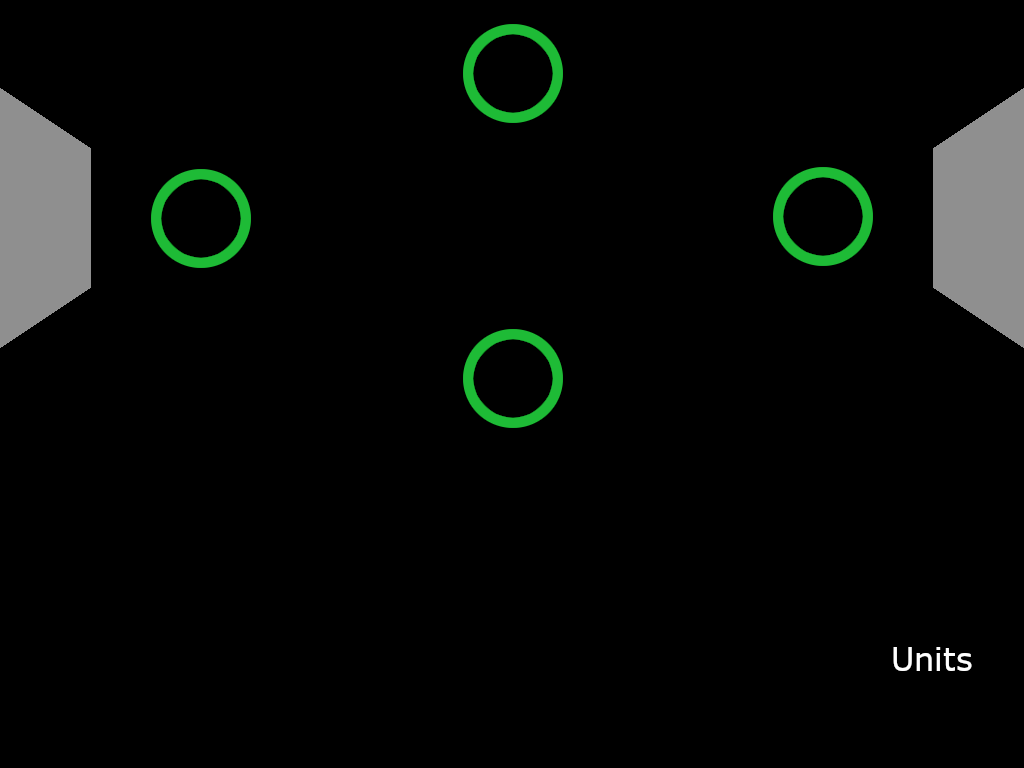
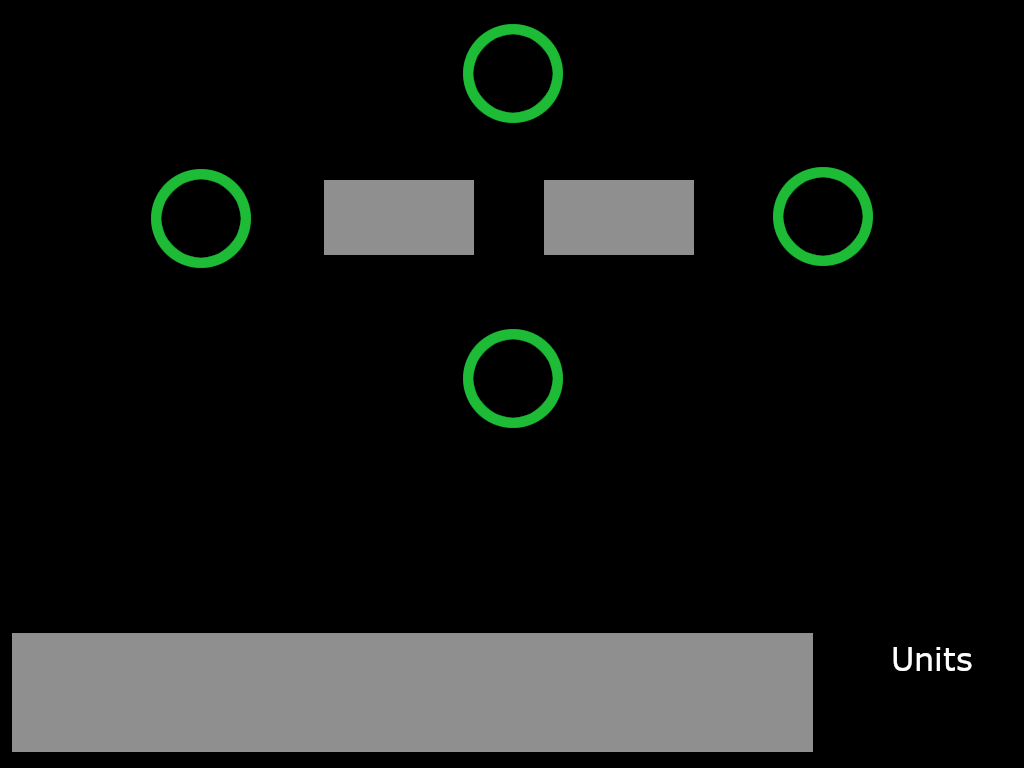
Further improvement of rendering

diff --git a/Framework/DiscreetBar.py b/Framework/DiscreetBar.py
@@ -7,45 +7,34 @@ Created on Fri Jul 25 15:50:32 2025
 
 import pygame as pg
 
+import Framework.Bar as Bar
 
 
-
-class DiscreetBar():
-    def __init__(self, maxEntries, insetWidth, width, height, bgColor,  fgColor, orientation):
+class DiscreetBar(Bar.Bar):
+    def __init__(self, maxEntries,  insetWidth, width, height, bgColor,  fgColor, orientation):
+        super().__init__( insetWidth, width, height, bgColor,  fgColor, orientation)
+        
         self.__maxEntries = maxEntries
-        self.__insetWidth = insetWidth
-        self.__bgColor = bgColor
-        self.__fgColor = fgColor
-        if orientation == 0: # Down
-            self.__turningAngle = 0
-        elif orientation == 1: # Right
-            self.__turningAngle = 90
-            width, height = height, width
-        elif orientation == 2: # Up
-            self.__turningAngle = 180
-        else: # left
-            self.__turningAngle = 270
-            width, height = height, width
-        self.__drawSurface = pg.Surface((width, height))
+
+
+        
+         
         
         
     def paint(self, targetSurface, position, entries):
-        width =  self.__drawSurface.get_rect().width
-        height =  self.__drawSurface.get_rect().height
         
-        targetWidth = width - 2 * self.__insetWidth
-        targetHeight = height / self.__maxEntries - 2 * self.__insetWidth
-        stepHeight = height / self.__maxEntries
-        xPos = self.__insetWidth
-        yPos = self.__insetWidth
-        self.__drawSurface.fill( self.__bgColor)
+        
+        stepHeight = self._sourceHeight / self.__maxEntries
+        targetWidth = self._sourceWidth - 2 * self._insetWidth
+        targetHeight = stepHeight - 2 * self._insetWidth
+        xPos = self._insetWidth
+        yPos = self._insetWidth
+        
+        self._drawSurface.fill( self._bgColor)
         for _ in range(entries):
-            pg.draw.rect(self.__drawSurface,  self.__fgColor, pg.Rect(xPos, yPos, targetWidth, targetHeight))
+            pg.draw.rect(self._drawSurface,  self._fgColor, pg.Rect(xPos, yPos, targetWidth, targetHeight))
             yPos += stepHeight
             
             
-        finalImage = pg.transform.rotate(self.__drawSurface, self.__turningAngle)
-        width =  finalImage.get_rect().width
-        height =  finalImage.get_rect().height
-        targetSurface.blit(finalImage,  (position[0] - width * 0.5, position[1] - height * 0.5))    
-        
+        finalImage = pg.transform.rotate(self._drawSurface, self._turningAngle)
+        targetSurface.blit(finalImage,  (position[0] - self._destWidth * 0.5, position[1] - self._destHeight * 0.5))  

diff --git a/Framework/ContinuousBar.py b/Framework/ContinuousBar.py
@@ -7,41 +7,27 @@ Created on Fri Jul 25 15:50:32 2025
 
 import pygame as pg
 
+import Framework.Bar as Bar
 
 
-
-class ContinuousBar():
+class ContinuousBar(Bar.Bar):
     def __init__(self,  insetWidth, width, height, bgColor,  fgColor, orientation):
-        self.__insetWidth = insetWidth
-        self.__bgColor = bgColor
-        self.__fgColor = fgColor
-        if orientation == 0: # Down
-            self.__turningAngle = 0
-        elif orientation == 1: # Right
-            self.__turningAngle = 90
-            width, height = height, width
-        elif orientation == 2: # Up
-            self.__turningAngle = 180
-        else: # left
-            self.__turningAngle = 270
-            width, height = height, width
-        self.__drawSurface = pg.Surface((width, height))
+        super().__init__( insetWidth, width, height, bgColor,  fgColor, orientation)
+       
+      
+        
         
         
     def paint(self, targetSurface, position, value):
-        width =  self.__drawSurface.get_rect().width
-        height =  self.__drawSurface.get_rect().height
         
-        targetWidth = width - 2 * self.__insetWidth
-        targetHeight = height * value - 2 * self.__insetWidth
-        xPos = self.__insetWidth
-        yPos = self.__insetWidth
-        self.__drawSurface.fill( self.__bgColor)
-        pg.draw.rect(self.__drawSurface,  self.__fgColor, pg.Rect(xPos, yPos, targetWidth, targetHeight))
+        targetWidth = self._sourceWidth - 2 * self._insetWidth
+        targetHeight = self._sourceHeight * value - 2 * self._insetWidth
+        xPos = self._insetWidth
+        yPos = self._insetWidth
+        self._drawSurface.fill( self._bgColor)
+        pg.draw.rect(self._drawSurface,  self._fgColor, pg.Rect(xPos, yPos, targetWidth, targetHeight))
             
             
-        finalImage = pg.transform.rotate(self.__drawSurface, self.__turningAngle)
-        width =  finalImage.get_rect().width
-        height =  finalImage.get_rect().height
-        targetSurface.blit(finalImage,  (position[0] - width * 0.5, position[1] - height * 0.5))    
+        finalImage = pg.transform.rotate(self._drawSurface, self._turningAngle)
+        targetSurface.blit(finalImage,  (position[0] - self._destWidth * 0.5, position[1] - self._destHeight * 0.5))    
         

diff --git a/FactoryExample/FactoryPainter.py b/FactoryExample/FactoryPainter.py
@@ -64,6 +64,8 @@ class FactoryPainter:
         
         self.__font = pg.font.SysFont(None, 48)
         
+        self.__foreGround = pg.image.load("Foreground.png")
+        
                                                  
         
     
@@ -71,17 +73,11 @@ class FactoryPainter:
     def ImageSize(self):
         rect = self.__backGround.get_rect()
         return (rect.width, rect.height)
-    
-    def DrawStaticParts(self, surface):
+        
+        
+    def DrawScene(self, surface,  situations):
+        # First background
         surface.blit(self.__backGround, (0,0))
-        
-        
-    def DrawFinalOverlay(self, surface):
-        # self.__pointCollection.DebugDraw(surface)
-        pass
-        
-        
-    def DrawElements(self, surface,  situations):
         # First we draw the depots,
         filling = situations['DA']['Info']
         self.__depotPaint.paint(surface,  self.__pointCollection.GetPoint('DepotA'),  filling)
@@ -118,6 +114,11 @@ class FactoryPainter:
         Pos.PositionManager.PaintSprite(surface, img, self.__pointCollection.GetPoint("ObjT"))
         time = situations['Time']['Factor']
         self.__timePaint.paint(surface,  self.__pointCollection.GetPoint('Bar'),  1.0 - time)
+        
+        # Final overlay
+        surface.blit(self.__foreGround, (0,0))
+        #self.__pointCollection.DebugDraw(surface)
+       
                
         
       

diff --git a/Framework/Bar.py b/Framework/Bar.py
@@ -1,0 +1,33 @@
+# -*- coding: utf-8 -*-
+"""
+Created on Sun Jul 27 09:44:22 2025
+
+@author: chris
+"""
+
+
+import pygame as pg
+
+class Bar():
+    def __init__(self,  insetWidth, width, height, bgColor,  fgColor, orientation):
+        self._insetWidth = insetWidth
+        self._bgColor = bgColor
+        self._fgColor = fgColor
+        self._destWidth , self._destHeight = width , height
+      
+        
+        match(orientation):
+            case 0:
+                self._turningAngle = 0
+                self._sourceWidth , self._sourceHeight = width, height
+            case 1:
+                self._turningAngle = 90
+                self._sourceWidth , self._sourceHeight = height, width 
+            case 2:
+                self._turningAngle = 180
+                self._sourceWidth , self._sourceHeight = width, height
+            case 3:
+                self._turningAngle = 270
+                self._sourceWidth , self._sourceHeight = height, width
+
+        self._drawSurface = pg.Surface((self._sourceWidth, self._sourceHeight))

diff --git a/Framework/MovieMaker.py b/Framework/MovieMaker.py
@@ -24,18 +24,12 @@ class MovieMaker:
       
     
     def __createImageFromData(self, data):
-        self.__painter.DrawStaticParts(self.__drawingSurface)
-        self.__painter.DrawElements(self.__drawingSurface,
-                                    data)
-        self.__painter.DrawFinalOverlay(self.__drawingSurface)  
+        self.__painter.DrawScene(self.__drawingSurface, data)
         # Convert to numpy array
         array = pg.surfarray.array3d(self.__drawingSurface)
         array = array.swapaxes(0, 1)
         return array   
     
-    
-   
-        
         
     def MakeMovie(self, movieFilename, scriptFilename, fps, timeScale):
         self.__script = ScriptGenerator.ScriptGenerator.LoadScript(scriptFilename+'.pkl')

diff --git a/Framework/PositionManager.py b/Framework/PositionManager.py
@@ -20,7 +20,7 @@ class PositionManager:
         
         
     def DebugDraw(self, targetSurface):
-        for idx, point in enumerate(self.__pointDictionary):
+        for idx, point in self.__pointDictionary.items():
             img = self.__font.render(f"{idx}", True, pg.Color(255,255,255))
             self.PaintSprite(targetSurface, img, point)
             
